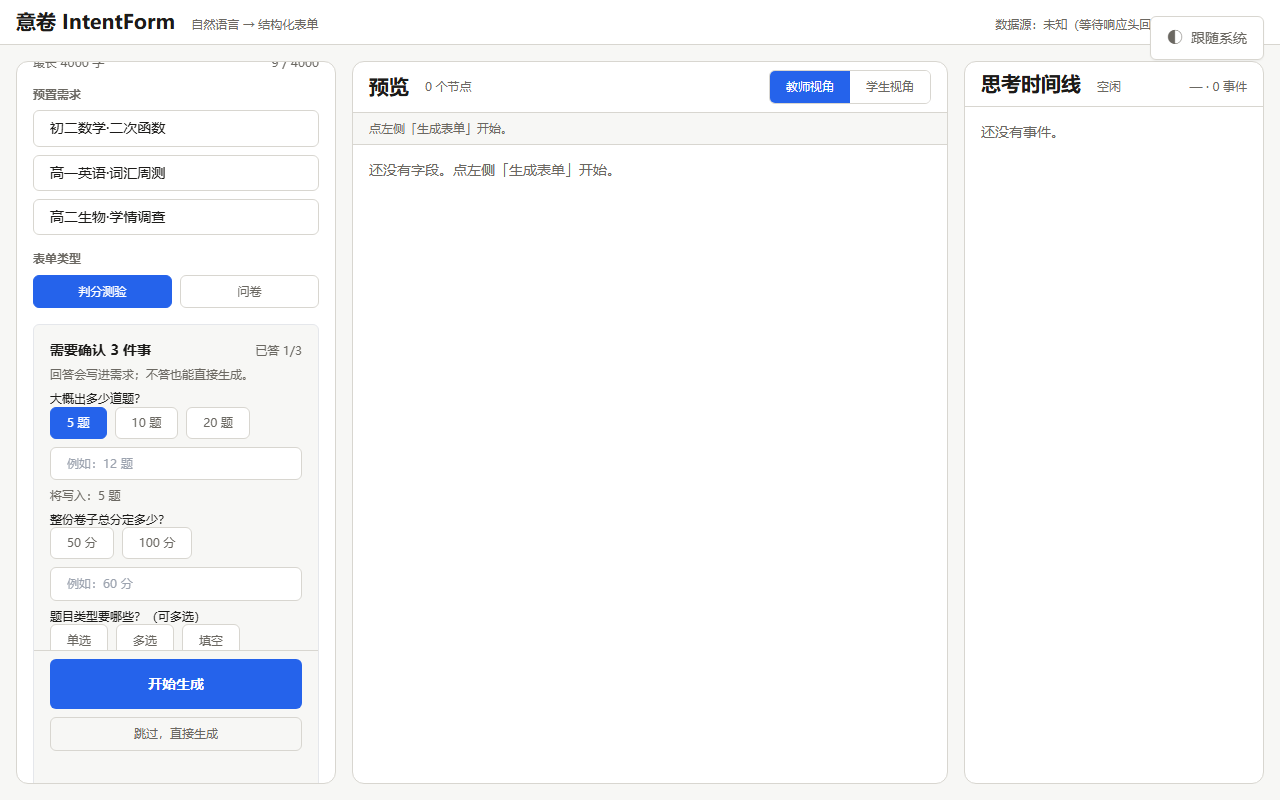
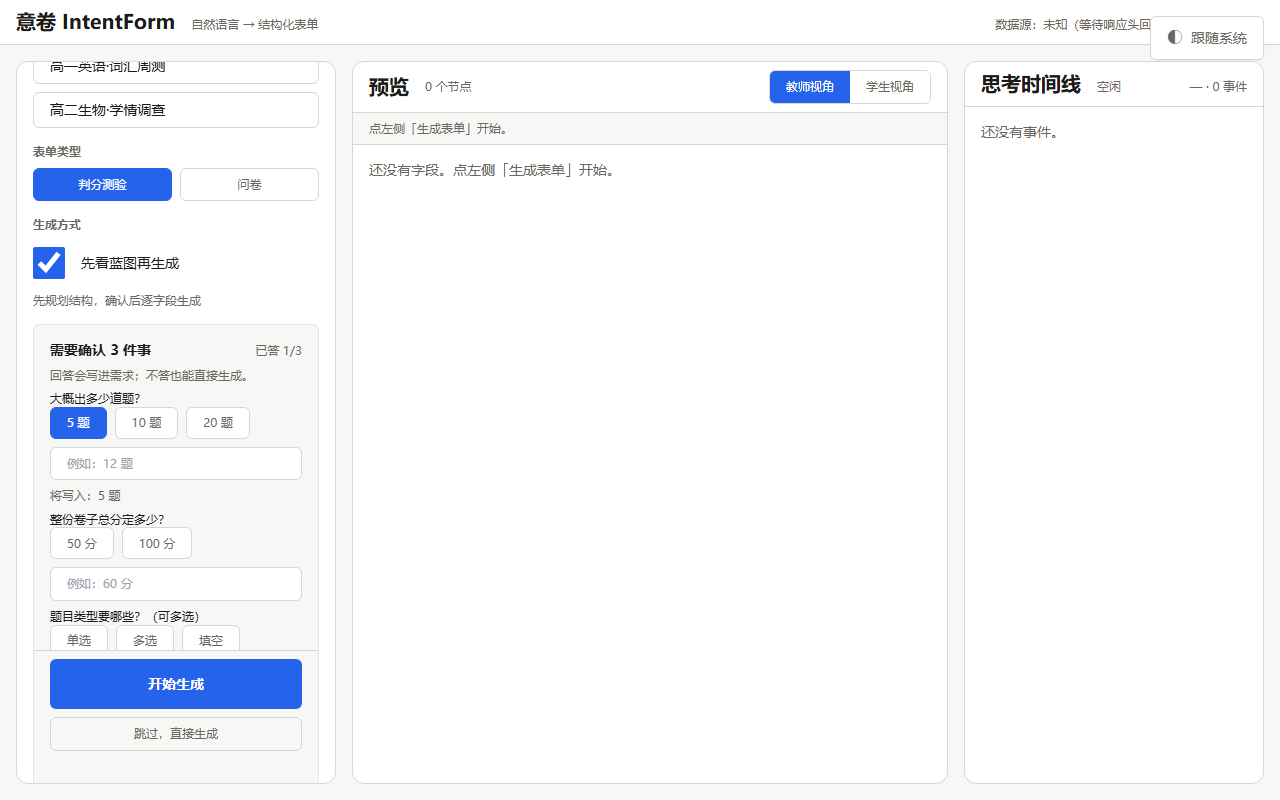
docs(evidence): 十四步二十二产物，补跳过蓝图截图 [P16]

diff --git a/docs/evidence/README.md b/docs/evidence/README.md
@@ -43,8 +43,8 @@ node scripts/browser-closed-loop.mjs   # 期望：每步截图进本目录 + std
 | 时间 | 2026-11-01 21:12（Asia/Shanghai） |
 | 浏览器 | Chrome 156.0.8078.47（headless=new，CDP 驱动） |
 | 服务 | `LLM_MODE=mock`；`NODE_ENV=production` 的同源 Node 服务托管 `web/dist`，端口临时分配 |
-| 结果 | 13 步全绿：登录 → 生成（需求 → **蓝图卡 → 按蓝图生成**，时间线出现 plan 与蓝图对照）→ 发布 → 学生页作答 → 提交 `20 / 25` → 看板新增 1 行、每题正确率全 `100%` 且覆盖矩阵渲染 → 教师批改后 `24 / 25` → 编辑器一句话改并撤销 → 含糊需求触发 3 条追问，跳过追问后仍走蓝图确认 → **生成页选「问卷」→ 发布 → 手机填写 → 回收看板（无均分/满分/`0/0`）→ CSV** → **打印版考卷（含答案开关、打印媒体隐藏外壳，`Page.printToPDF` 出 PDF）** → **答案解析开关（教师开启后学生重交，成功页出现正确答案与解析）** → **暗色模式（系统深色自动生效、三态循环、浅/深底色实测）**；首页响应头含 `script-src 'self'` 与 `style-src-attr 'unsafe-inline'` |
-| 截图与产物 | `01-login.png` … `18-dark-dashboard.png` 共 20 张截图 + `16-print-sheet.pdf`，全部同一次生产构建运行 |
+| 结果 | 14 步全绿：登录 → 生成（需求 → **蓝图卡 → 按蓝图生成**，时间线出现 plan 与蓝图对照）→ 发布 → 学生页作答 → 提交 `20 / 25` → 看板新增 1 行、每题正确率全 `100%` 且覆盖矩阵渲染 → 教师批改后 `24 / 25` → 编辑器一句话改并撤销 → 含糊需求触发 3 条追问，跳过追问后仍走蓝图确认 → **生成页选「问卷」→ 发布 → 手机填写 → 回收看板（无均分/满分/`0/0`）→ CSV** → **打印版考卷（含答案开关、打印媒体隐藏外壳，`Page.printToPDF` 出 PDF）** → **答案解析开关（教师开启后学生重交，成功页出现正确答案与解析）** → **暗色模式（系统深色自动生效、三态循环、浅/深底色实测）** → **关掉「先看蓝图」开关后直接生成（无蓝图卡、时间线不出现 plan）**；首页响应头含 `script-src 'self'` 与 `style-src-attr 'unsafe-inline'` |
+| 截图与产物 | `01-login.png` … `19-skip-plan.png` 共 21 张截图 + `16-print-sheet.pdf`，全部同一次生产构建运行 |
 
 第 2 步是 R-06 的界面级证据：蓝图卡上的题量/题型/分值来自 `/api/plan` 的**结构化返回**（不是前端拼的），
 点「按蓝图生成」后时间线才出现 `plan` 阶段与「蓝图对照」那行。
@@ -71,6 +71,10 @@ HTTP 语义，两者分工与前面各步一致。
 第 13 步是 A-19（暗色模式）的界面级证据：`Emulation.setEmulatedMedia` 切系统深色后
 页面自动进入深色（实测 `body` 底色 `rgb(20, 19, 15)`）；点主题开关按
 跟随系统 → 浅色 → 深色 → 跟随系统循环，浅色底色实测 `rgb(247, 247, 245)`。
+
+第 14 步是 A-02「先看蓝图」开关的界面级证据：开关默认开（两阶段是主路径）；
+关掉后点「生成表单」直接出字段流，**不出现蓝图卡**，时间线也不出现 `plan` 与
+「蓝图对照：」（只发真实事件）。
 
 R-08 的 CSP 响应头断言已进入闭环脚本；受限 Windows 环境下 Chrome 临时 profile 需要
 `--no-sandbox` 才能稳定保留 page target，修复后生产构建闭环稳定全绿并覆盖截图（R-09 起 10 步 / 17 图）。
